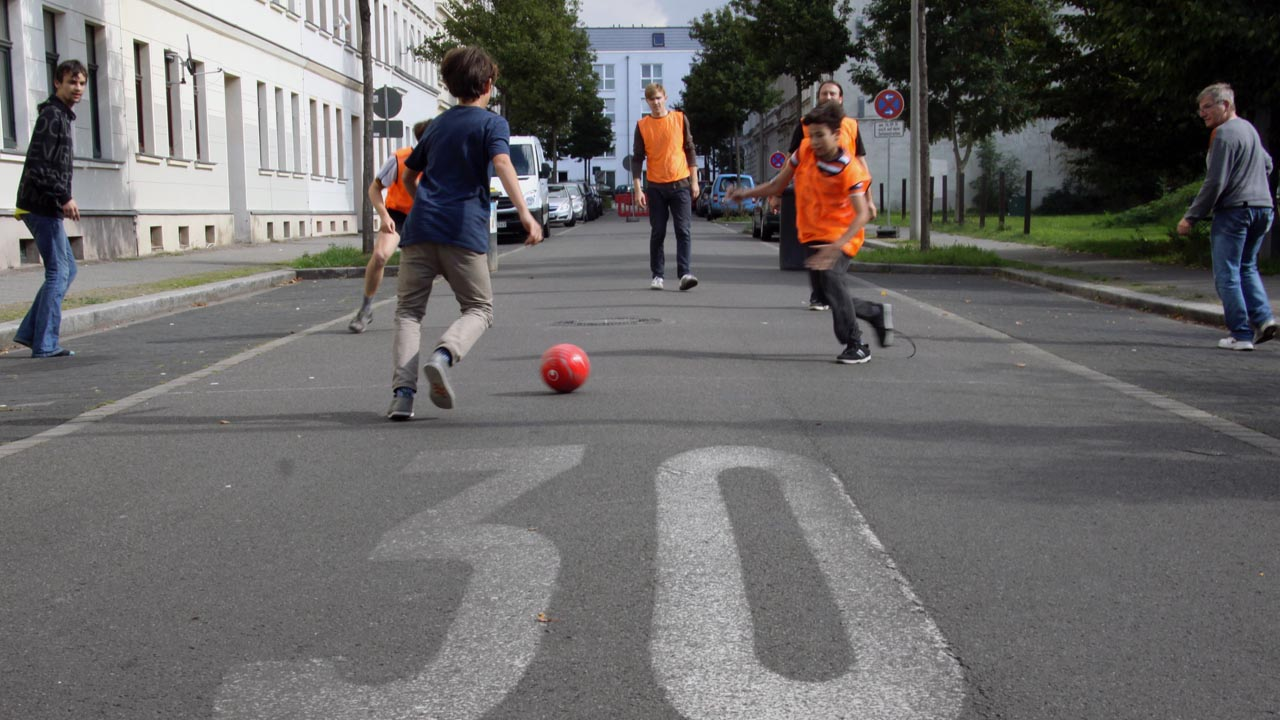
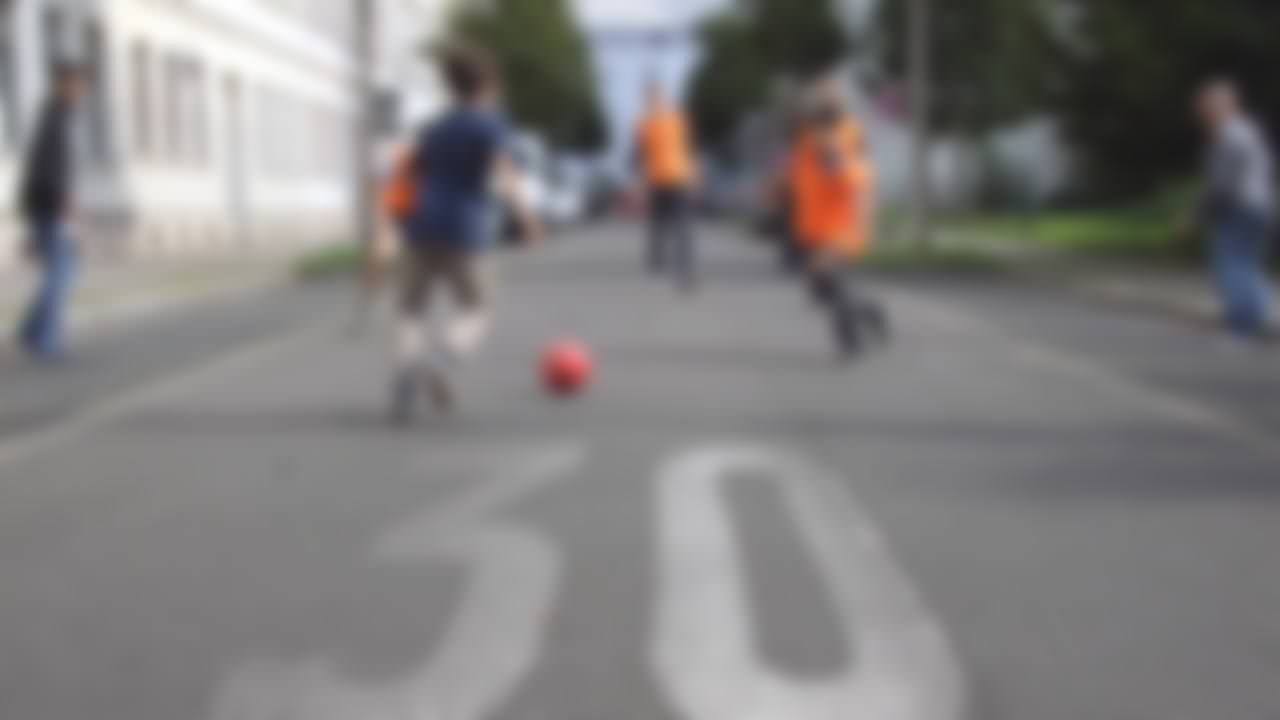
Schönere Startseite

diff --git a/themes/aae_theme/css/app.css b/themes/aae_theme/css/app.css
@@ -352,7 +352,11 @@ transform: rotate(-10deg);
  padding: 24px 0;
 }
 
-.section h1 strong {
+.section h1 span {
+ padding: 3px;
+}
+
+.section h1 span strong {
  font-weight: 400;
 }
 
@@ -367,7 +371,7 @@ transform: rotate(-10deg);
 }
 
 #projects-events {
- background: url(../img/homepage_akteure_bg.jpg);
+ background: url(../img/ostspiele_fussball_ida.jpg);
  background-size: 100%;
 }
 

diff --git a/themes/aae_theme/templates/page--front.tpl.php b/themes/aae_theme/templates/page--front.tpl.php
@@ -45,7 +45,7 @@
 
   <section class="section" id="projects-events">
 
-    <h1><span>&nbsp;<strong>N&auml;chste Veranstaltungen</strong>&nbsp;</span></h1>
+    <h1><span>&nbsp;<strong>N&auml;chste Veranstaltungen</strong></span></h1>
     <br/>
     <div class="row">
 
@@ -53,24 +53,27 @@
     // Lade "letzte Events"-Block
     foreach ($blocks->print_letzte_events() as $event) : ?>
 
+    <?php $exploded = explode("-", $event->start); ?>
+
      <div class="large-3 large-offset-1 columns event">
-      <a href="#"><button class="button blue date">08<br />Sept</button></a>
+      <a href="#"><button class="date"><?= $exploded[0]; ?>.<br /><?= $exploded[1]; ?>.</button></a>
       <a href="#"><h4><?= $event->name; ?></h4></a>
-      <aside><a href="<?= base_path(); ?>?q=Eventprofil/<?= $event->EID; ?>">
-       <img src="<?= base_path().path_to_theme(); ?>/img/location.svg" /><?= $event->veranstalter; ?> <br/>
-       <img src="<?= base_path().path_to_theme(); ?>/img/clock.svg" /><strong>BEGINN</strong> - <strong>ENDE</strong></p>
+      <aside><a href="<?= base_path(); ?>Eventprofil/<?= $event->EID; ?>">
+       <img src="<?= base_path().path_to_theme(); ?>/img/clock.svg" /><strong><?= $event->zeit_von; ?></strong><?php if (!empty($event->zeit_bis)) :?> - <strong><?= $event->zeit_bis; ?></strong><?php endif; ?></p>
       </a></aside>
      </div>
 
     <?php endforeach; ?>
 
+    <a href="<?= base_path(); ?>events" class="button secondary round">Alle Events</a>
+
     </div>
-    
+
   </section>
 
   <section class="section" id="projects-akteure">
 
-    <h1><span>&nbsp;<strong>Neueste Akteure</strong>&nbsp;</span></h1>
+    <h1><span>&nbsp;<strong>Neueste Akteure</strong></span></h1>
     <br/>
     <div class="row">
 
@@ -84,21 +87,19 @@
       foreach ($blocks->print_letzte_akteure() as $akteur) : ?>
 
        <div class="large-3 large-offset-1 columns pcard">
-        <header<?php if($akteur->bild != '') echo ' style="background:url('.$akteur->bild.');"'; ?>>
+        <header<?php if($akteur->bild != '') echo ' style="background-image:url('.$akteur->bild.');"'; ?>>
           <h3><a href="<?= base_path().'Akteurprofil/'.$akteur->AID; ?>"><?= $akteur->name; ?></a></h3>
-          <!--<img title="Barrierefrei" class="barrierefrei" src="img/wheelchair.svg" />-->
          </header>
          <section>
-          <p><!--<strong>Reudnitz</strong>--><?= substr($akteur->beschreibung, 0, 120); ?>...</p>
+          <?php if (!empty($akteur->bezirk)) : ?><p class="plocation"><img src="/sites/all/themes/aae_theme/img/location.svg" /><?= $akteur->bezirk; ?></p><?php endif; ?>
+          <div class="divider"></div>
+          <p><?= substr($akteur->beschreibung, 0, 120); ?>...</p>
          </section>
-         <footer>
-          <a href="#" title="Hier erscheint bei Klick eine Minimap inkl. Strassenangabe"><img src="<?= base_path().path_to_theme(); ?>/img/location.svg" /></a>
-          <a href="#" title="Weiterleitung zu Terminen dieses Projektes"><img class="gimmeborder" src="<?= base_path().path_to_theme(); ?>/img/calendar.svg" /></a>
-          <a href="<?= base_path(); ?>Akteurprofil/<?= $akteur->AID; ?>" title="Profil besuchen"><button class="button blue">&gt;</button></a>
-         </footer>
         </div>
 
       <?php endforeach; ?>
+
+      <a href="<?= base_path(); ?>akteure" class="button secondary round">Alle Akteure</a>
 
     </div> <!--#row-->
 

diff --git a/modules/aae_data/aae_blocks.php b/modules/aae_data/aae_blocks.php
@@ -5,7 +5,6 @@
 *
 * Ein paar Hilfsfunktion für das Theme...
 * @use require_once DRUPAL_ROOT . '/sites/all/modules/aae_data/aae_blocks.php';
-*      aae_blocks::FUNKTION
 *
 * @function print_letzte_events
 * @function print_letzte_akteure
@@ -32,8 +31,6 @@ public function print_letzte_events($limit = 6) {
     ->execute()
     ->fetchAll();
 
-  // TODO Fields * durch Werte ersetzen
-
   $resultEvents = array();
 
   foreach($letzteEvents as $row){
@@ -51,21 +48,38 @@ public function print_letzte_events($limit = 6) {
 
 public function print_letzte_akteure($limit = 3) {
 
-  $letzteakteure = db_select($this->tbl_akteur, 'a')
+  $resultAkteure = db_select($this->tbl_akteur, 'a')
     ->fields('a')
     ->range(0, $limit)
     ->execute()
     ->fetchAll();
 
-  $resultakteure = array();
-
-  // TODO Fields * durch Werte ersetzen
-
-  foreach($letzteakteure as $row){
+  /*foreach($letzteAkteure as $row){
     $resultakteure[] = $row; //array('AID' => $row->AID, 'name' => $row->name);
-  }
+  } */
 
-  return $resultakteure;
+  // Get Bezirk
+  foreach ($resultAkteure as $counter => $akteur) {
+
+   $adresse = db_select($this->tbl_adresse, 'ad')
+    ->fields('ad', array('bezirk','gps'))
+    ->condition('ADID', $akteur->adresse, '=')
+    ->execute()
+    ->fetchAssoc();
+
+   $bezirk = db_select($this->tbl_bezirke, 'b')
+    ->fields('b')
+    ->condition('BID', $adresse['bezirk'], '=')
+    ->execute()
+    ->fetchAssoc();
+
+   // Hack: add variable to $resultAkteure-object
+   $resultAkteure[$counter] = (array)$resultAkteure[$counter];
+   $resultAkteure[$counter]['bezirk'] = $bezirk['bezirksname'];
+   $resultAkteure[$counter] = (object)$resultAkteure[$counter];
+
+ }
+ return $resultAkteure;
 }
 
 /**

diff --git a/themes/aae_theme/templates/node--article.tpl.php b/themes/aae_theme/templates/node--article.tpl.php
@@ -1,13 +1,14 @@
 <?php $theme_path =  drupal_get_path('theme', $GLOBALS['theme']);
-      global $base_url; ?>
+      global $base_url;
+      global $user; ?>
 
 <header id="article-image" style="background-image:url(<?php print render (file_create_url($node->field_image['und'][0]['uri'])); ?>);">
 
  <div class="aaeActionBar">
   <div class="row">
-   <?php //if ($hat_recht): ?>
+   <?php if (array_intersect(array('redakteur','administrator'), $user->roles)) : ?>
     <div class="large-3 large-offset-1 columns"><a href="<?= $node_url; ?>/edit" title="Artikel bearbeiten"><img src="<?= base_path().$theme_path; ?>/img/manage.svg" />Bearbeiten</a></div>
-    <?php // endif; ?>
+    <?php endif; ?>
 
    <div class="large-4 columns right" style="text-align: right;">
     <a href="#comments" title="<?= $comment_count; ?> Kommentar(e)"><img src="<?= base_path().$theme_path; ?>/img/comments.svg" /><?= $comment_count; ?> Kommentar(e)</a>
